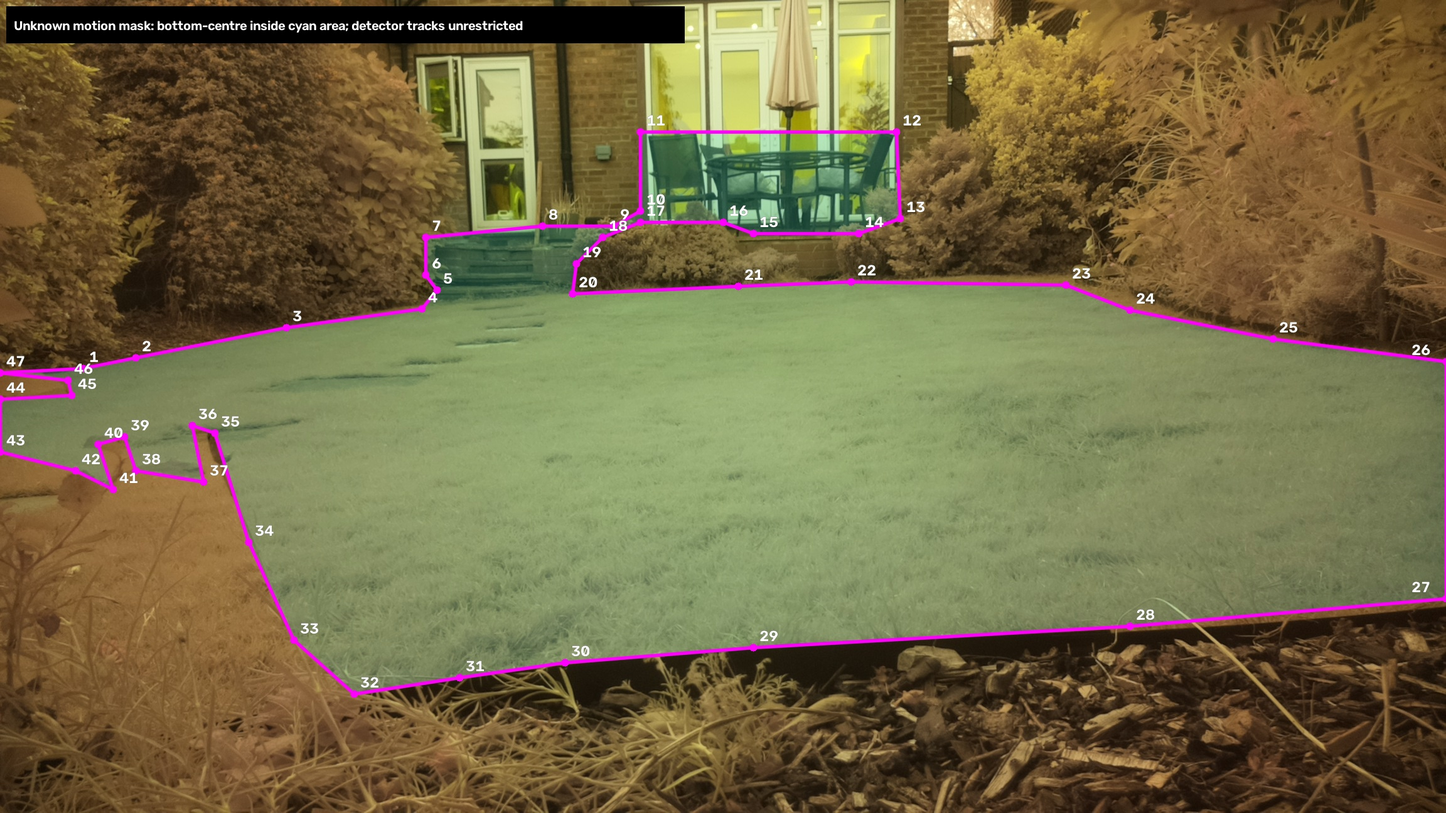
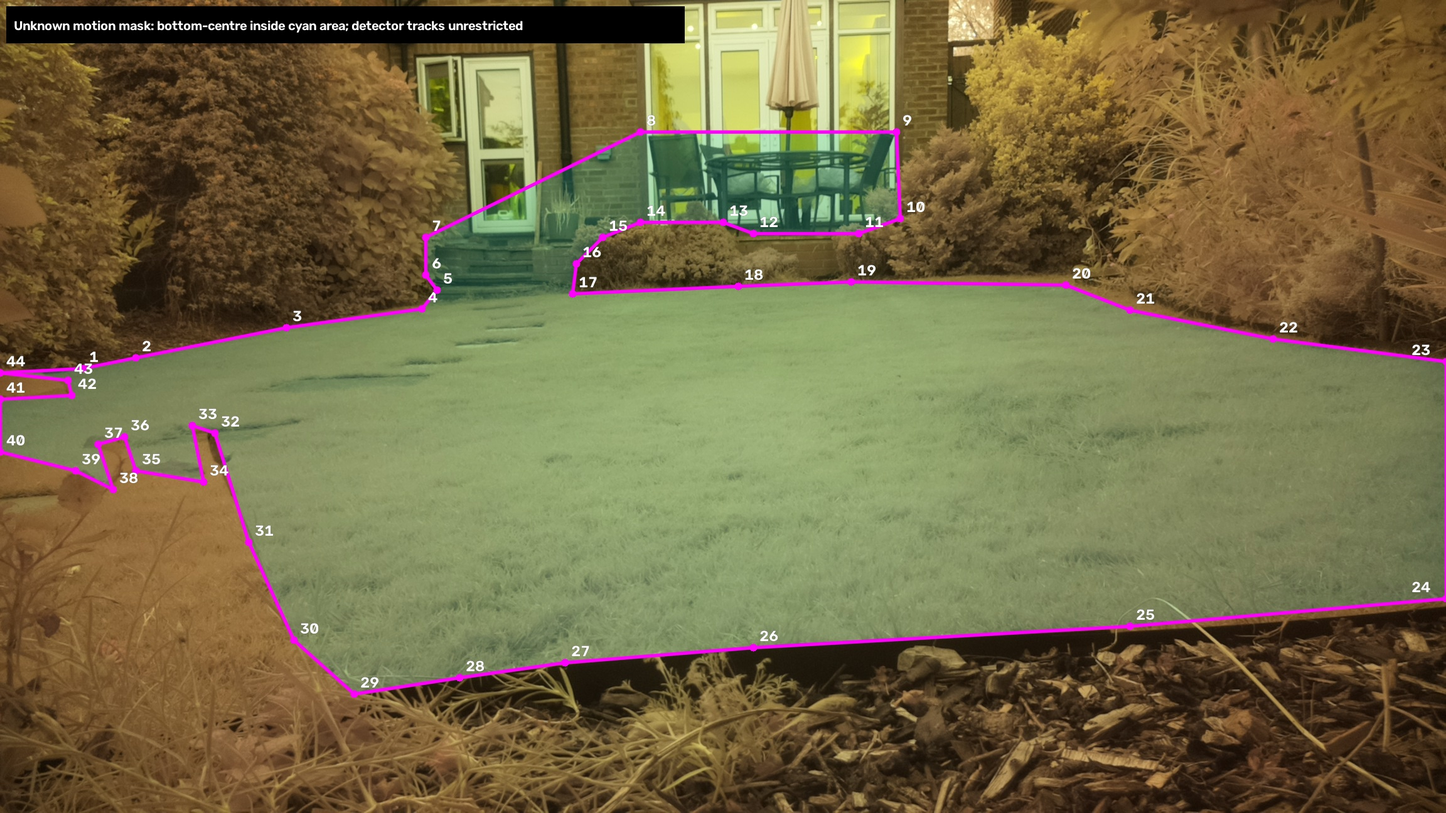
Join patio mask vertex 7 directly to 11 and retain table coverage
Apply the replacement user instruction to the original mask: remove only former vertices 8, 9 and 10 and retain all other vertices, including the table rectangle. Door glazing is intentionally accepted. Regenerate only overlays 11/12. Tests first: three coverage checks failed before the replacement; all 16 mask cases pass afterward. Overlays 08/09 remain unchanged.

Changed region(s): [[0.2812, 0.1235, 0.4688, 0.3086], [0.0625, 0.5247, 0.0938, 0.5556]]

diff --git a/tests/test_lawn_mask.py b/tests/test_lawn_mask.py
@@ -15,9 +15,12 @@ from foxcam.ground import load_calibration
     ((500, 900), True),                 # Lawn immediately above the metal edging.
     ((40, 540), True),                  # Left grass edge beneath the bed.
     ((100, 300), False),                # Left bed/shrub.
-    ((960, 200), True),                 # Table and chair area.
+    ((960, 200), True),                 # Table rectangle retained by operator.
     ((620, 350), True),                 # Patio steps.
-    ((1050, 280), True),                # Patio beside the table.
+    ((1050, 280), True),                # Door glazing accepted by operator.
+    ((750, 250), True),                 # New direct edge from former vertex 7 to 11.
+    ((700, 320), True),                 # Patio area by the steps, away from glass.
+    ((620, 390), True),                 # In front of the steps.
     ((820, 350), False),                # Shrub in front of patio.
     ((1850, 350), False),               # Right bed/shrub.
     ((1200, 1000), False),              # Foreground mulch.

diff --git a/docs/calibration.md b/docs/calibration.md
@@ -94,7 +94,11 @@ Camera stills at 2304x1296 with the recorder's settings, and phone photos of the
 
 `motion_polygon` in `vps/ground-calibration.json` uses 1920×1080 recording
 coordinates. It covers the lawn and stepping stones, the steps up to the
-patio, and the area around the table and chairs. Beds, shrubs, mulch and
+patio, and the area around the table and chairs. The table rectangle is
+retained. Former vertices 8, 9 and 10 were removed, connecting former vertex
+7 directly to 11; the current overlays renumber the remaining vertices.
+Some door glazing is intentionally included, as accepted by the operator.
+Detector tracks remain unrestricted. Beds, shrubs, mulch and
 foreground plant silhouettes are excluded, including plants projecting over
 the near-left grass. The foreground outline is conservative around stems.
 
